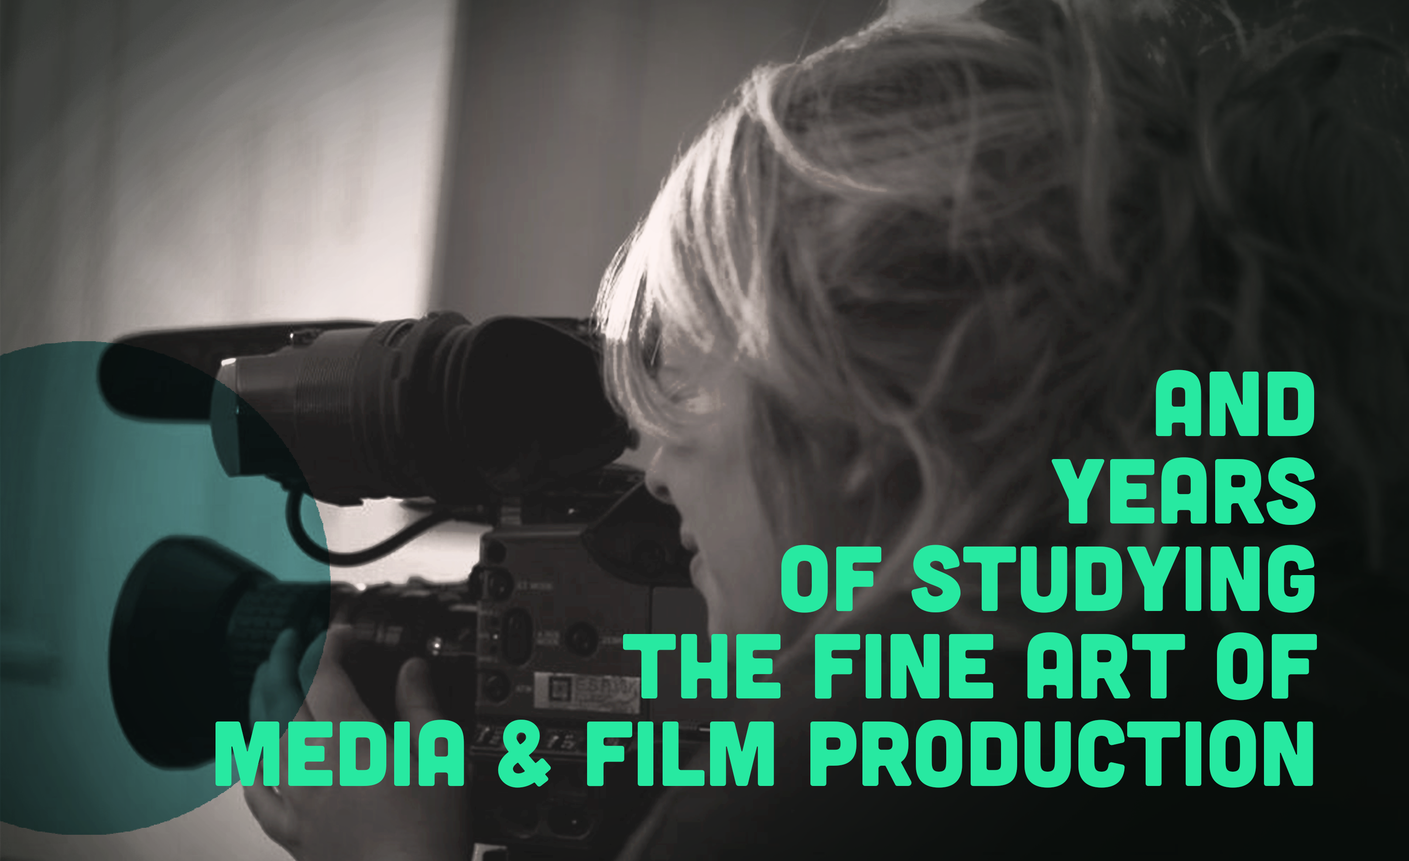
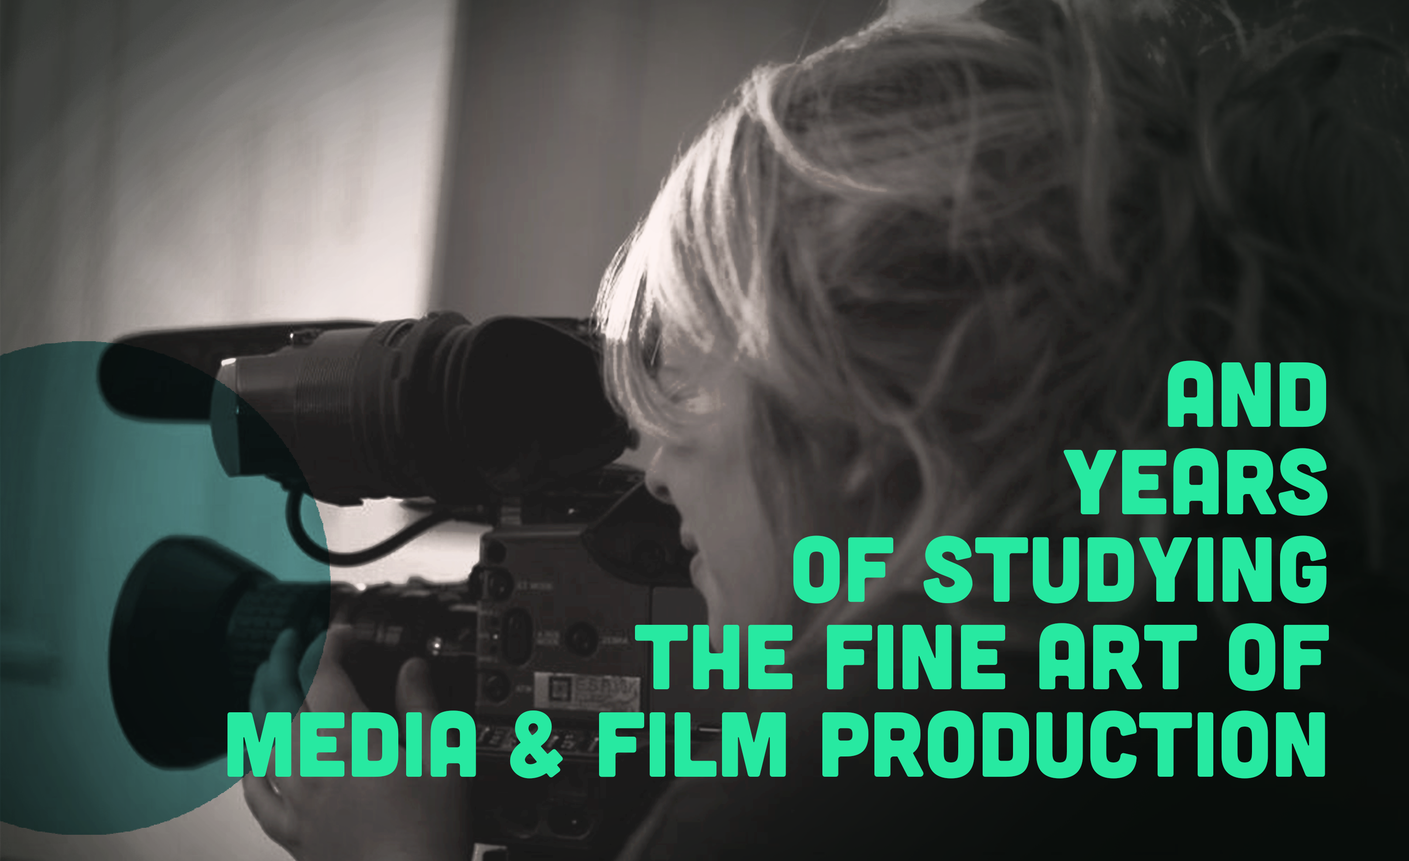
Content updates

Changed region(s): [[0.1552, 0.4032, 0.9624, 0.9305]]

diff --git a/index.html b/index.html
@@ -8,7 +8,7 @@
     <link rel = "stylesheet" type="text/css" href = "CSS/stylesheet.css">
     <link rel = "stylesheet" type="text/css" href = "CSS/queries.css">
     <link href="https://fonts.googleapis.com/css?family=Playfair+Display:400,700,700i,900,900i" rel="stylesheet">
-    <link href="https://fonts.googleapis.com/css?family=Raleway:400,600,700,900" rel="stylesheet">
+    <link href="https://fonts.googleapis.com/css?family=Raleway:400,500,600,700,900" rel="stylesheet">
     <link href="https://fonts.googleapis.com/css?family=Abril+Fatface|Lato" rel="stylesheet">
     <link rel="stylesheet" href="https://use.fontawesome.com/releases/v5.8.1/css/all.css" integrity="sha384-50oBUHEmvpQ+1lW4y57PTFmhCaXp0ML5d60M1M7uH2+nqUivzIebhndOJK28anvf" crossorigin="anonymous">
 
@@ -33,8 +33,8 @@
             <div class="hero-text-box">
                 <p id="welcome">Dear FAC family, </p>
                 <p id="welcome_text">My name is Leonie, and I am 
-                <span class="text-type" data-wait="3000" data-words='["an aspiring web developer.", "a food-loving cyclist.", "not a robot.", "a freelance producer.", "a travel enthousiast."]'></span>&nbsp;
-                <br>Inspired by the philosophy of effective altruism, the Tech For Good movement and London's vibrant coding community, I'm keen to start a career in coding.</p>
+                <span class="text-type" data-wait="3000" data-words='["an aspiring web developer.", "a freelance producer.","a multilingual travel enthusiast.", "not a robot.", "a passionate foodie" ]'></span>&nbsp;
+                <br>Inspired by a Japanese philosophy, the Tech For Good movement and London's vibrant coding community, I'm keen to start a career in coding.</p>
             </div>
 
     </header>
@@ -48,7 +48,7 @@
                                         <i class="fas fa-arrow-alt-circle-left" id="prevBtn"></i>
                                         <i class="fas fa-arrow-alt-circle-right" id="nextBtn"></i>
                                 <div class="carousel-slide">
-                                        <img src="images/image_carousel/Image_5.png" class="image" alt="" id="lastClone">
+                                        <img src="images/image_carousel/Image_7.png" class="image" alt="" id="lastClone">
                                         <img src="images/image_carousel/Image_1.png" class="image"  alt="">
                                         <img src="images/image_carousel/Image_2.png" class="image" alt="">
                                         <img src="images/image_carousel/Image_3.png" class="image" alt="">
@@ -81,8 +81,8 @@
                         <div class="col span_7">
                                 <p>After college, I was drawn to a career in media production as it seemed to provide a perfect blend of creativity, versatility and entrepreneurship. Ten years, two media-related degrees and three international moves later, I'm now working as a freelance producer and motion graphics designer in the advertising industry. Throughout the past years, I had the opportunity to work on films, TV productions and branded video content - projects that 19-year old me would have been super excited about. But instead of excitement, I started feeling increasingly frustrated in my job and with my career choices. As I was grappling with what felt like a <a href="https://en.wikipedia.org/wiki/Quarter-life_crisis" alt="Wikipedia article on Quarter-life crisis" target="_blank">quarter-life crisis</a>, I learned about <a href="https://en.wikipedia.org/wiki/Ikigai" alt="Wikipedia article on ikigai" target="_blank">ikigai</a>, a Japanese concept meaning  "a reason for being" which can serve as some sort of compass to navigate both career and life decisions. </p>
 
-                                <p class="new_paragraph">And there was <a href="https://en.wiktionary.org/wiki/des_Pudels_Kern" alt="Wikipedia article on the expression The poodle's core" target="_blank">'the poodle's core'</a>: Not only had I not found my ikigai yet, but I also realized that most likely, I wouldn't find it in film and video production <i>(unless maybe David Attenborough called asking me to produce the next Blue Planet).</i><br>
-                                Following that eureka moment, I knew that I had to explore other career routes. So I started my quest for a new career <b class="highlight">by addressing ikigai's four defining questions</b>...</p> 
+                                <p class="new_paragraph">And there was <a href="https://en.wiktionary.org/wiki/des_Pudels_Kern" alt="Wikipedia article on the expression The poodle's core" target="_blank">'the poodle's core'</a>: Not only had I not found my ikigai yet, but I also realized that most likely, I wouldn't find it in film and video production.<br>
+                                Following this eureka moment, I knew that I had to explore other career routes. So I started my quest for a new career <b class="highlight">by addressing ikigai's four defining questions</b>...</p> 
                         
                         </div>
                 </div>
@@ -102,20 +102,21 @@
                     <div class="col span_7">
                             <p class="cycle_text activeText" id="need_text">This felt like the most pressing question for me to address since it is very important for me to find a meaningful career, i.e. do work that helps others in some way. I also felt that this was where I saw the most discrepancy between my goals and my current career - cause let's be honest, advertising and entertainment is not really top of the 'What the world needs'-list. Through my research, I came to learn about effective altruism and discovered the incredibly inspiring website <a href="https://80000hours.org/" alt="80,000 hours website" target="_blank">80,000 hours</a>: An eye-opening online resource that provides advice on careers with positive social impact. I devoured this website from top to bottom. And in doing so, I realized the multiple ways in which a career in tech can have a positive social impact and can be used to help others. My excitement for the tech industry was further spurred, when I discovered the <a href="https://techforgoodhub.co.uk/tech-for-good" alt="article on tech for good" target="_blank">Tech for Good</a> movement and learned about tech enterprises that improve education, strengthen communities, increase inclusivity and much more.<br>The idea of designing, building and using tech to drive social change excited me tremendously and looking ahead in our digital future, I believe it is exactly <b class="highlight">what the world needs</b>.
                             </p>
-                            <p class="cycle_text hidden" id="love_text">As someone who loved both maths and arts at college, I always felt that my passion is somewhat torn between my left and right brain side. While I always enjoyed solving mathematical and analytical problems, I didn't start a career in math as I feared a lack of creative work and vice versa - the compromise was a career in media which eventually left neither brain side fully satisfied. However, working in media production helped me to discover one thing that I truly love: building things. From complex Excel project plans to motion graphics compositions - I could spend days designing a system and then working out the software to bring this brainchild to life. As a motion graphics designer, I frequently find myself in a <a href="https://en.wikipedia.org/wiki/Flow_(psychology)" alt="Wikipedia article on flow state" target="_blank">flow state</a> where I work on compositions for hours while completely losing track of time. I also love the constant learning process that is required to build new things in different ways. You can imagine my excitement when I discovered that coding combines all these <b class="highlight">things I love doing</b>.<br>On top of that, I was amazed and grateful when I discovered the numerous collaborative and open-source learning opportunities that are available within the coding community. I very much enjoy participating in coding events and I'm excited about the idea of diving deeper into the coding community as a student and eventually as a mentor. </p>
-                            <p class="cycle_text hidden" id="good_text">When I first started with coding, I still had doubts if I could be any good in a long-term programming career. I always thought of myself as a people person who likes working in teams and thrives when collaborating with others. My idea of coding was somewhat the opposite of teamwork as I had always considered it as a just-you-and-your-computer kind of thing. However, visiting FAC and other coding meetups over the past few months, I've learned that communication and team working skills are tremendously important in this profession. Discovering that coding can be a collaborative exercise helped me gain confidence in becoming a coder myself. Now I feel that my people skills can be an asset when working in web development. Combined with my motivation for lifelong learning and my somewhat stubborn persistence when facing logical challenges, I do feel that <b class="highlight">I could become good at coding</b>.</p>
-                            <p class="cycle_text hidden" id="paid_text">Learning an 'employable' skill that is in demand in the future job market, was another important criteria in my career search. The industry I'm currently working in is afflicted with nepotism and often it's more about 'who you know' and what namely credits you have on your CV, rather than your skills and merit. I do realise that networking and soft skills are important in any job. But as someone who enjoys learning and building new skills, I am keen to build 'career capital' that consists of both soft and hard skills.<br>Looking at different job market projections and skill gap reports, I quickly realised that coding skills - JavaScript skills in particular -  are increasingly in demand. I also found FAC's own employment statistics (as presented at one of your opening evenings) very encouraging and reassuring in that regard. As a freelancer with irregular and little income, investing time in education at the cost of paid opportunities is a huge decision for me and sometimes can feel a bit like a gamble. Knowing that coding is something that I <b class="highlight">very likely can be employed and paid for</b> is extremely reassuring and helps me to stay focused.</p>
+                            <p class="cycle_text hidden" id="love_text">As someone who loved both maths and arts at college, I always felt that my passion is somewhat torn between my left and right brain side. While I always enjoyed solving mathematical and analytical problems, I didn't start a career in math as I feared a lack of creative work and vice versa - the compromise was a career in media which eventually left neither brain side fully satisfied. However, working in media production helped me to discover one thing that I truly love: building things. From complex Excel project plans to After Effects compositions - I could spend days designing a system and then working out the software to bring this brainchild to life. As a motion graphics designer, I frequently find myself in a <a href="https://en.wikipedia.org/wiki/Flow_(psychology)" alt="Wikipedia article on flow state" target="_blank">flow state</a> where I work on compositions for hours while completely losing track of time. I also love the constant learning process that is required to build new things in different ways. You can imagine my excitement when I discovered that coding combines all these <b class="highlight">things I love doing</b>.<br>On top of that, I was amazed and grateful when I discovered the numerous collaborative and open-source learning opportunities that are available within the coding community. I greatly enjoy participating in coding events and I'm excited about the idea of diving deeper into the coding community as a student and eventually as a mentor. </p>
+                            <p class="cycle_text hidden" id="good_text">“Find a job you’re good at” is probably the most common career advice, yet it seems to be the toughest question to figure out. <a href="https://80000hours.org/career-guide/personal-fit/#3-write-out-your-key-uncertainties" alt="Article on how to find the right career" target="_blank">Research shows</a> that it is very hard for us to predict what we’ll be good at ahead of time, especially through self-reflection.  What is more, abilities are built over time rather than discovered by soul-searching (or identified by biased parents). Based on this, I figured that I should rather ask myself <b class="highlight">“Could I <i>become</i> good at this job”</b>, once I discovered a career route that would interest me.<br> 
+                                        When I first got interested in coding, I had doubts if I could be any good in a long-term programming career. I always thought of myself as a people person who likes working in teams and thrives when collaborating with others. My idea of coding was somewhat the opposite of teamwork as I had always considered it as a just-you-and-your-computer kind of thing. However, visiting FAC and other coding meetups over the past few months, I've learned that communication and team working skills are tremendously important in this profession. Discovering that coding can be a <b class="highlight">collaborative exercise</b> helped me gain confidence in becoming a coder myself. Now I feel that my people skills can be an asset when working in web development. Combined with my motivation for lifelong learning and my somewhat stubborn persistence when facing logical challenges, I do feel that <b class="highlight">I could become good at coding. 
+                                        </b>.</p>
+                            <p class="cycle_text hidden" id="paid_text">Learning an 'employable' skill that is in demand in the future job market, was a very important criterion in my career search. Looking at different job market projections and skill gap reports, I quickly realised that coding skills - JavaScript skills in particular -  are increasingly sought after. What's more, coding skills can be applied across industries, which implies that these skills are both future-proof and flexible career capital. 
+                                I also found FAC's own employment statistics (as presented at one of your opening evenings) very encouraging and reassuring in that regard to a career in coding. As a freelancer with irregular and little income, investing time in education at the cost of paid opportunities is a huge decision for me and sometimes can feel a bit like a gamble. Knowing that coding is something that I <b class="highlight">can be employed and paid for</b> is extremely reassuring and helps me to stay focused.</p>
                     </div>
                 </div>
 
        
         <div class="statement">
                 <div id="coding_statement">
-                                <p> The more I learned about coding, the more I realized that it ticks many of those ikigai 'checkboxes' for me. This alone helped me fight off my quater-life crisis. The anxiety and regrets I had in regards to career choices gradually turned into excitement and ambition to learn more and more and more. And when I learned about FAC, this excitement was turned up a few notches. 
+                                <p> The more I learned about coding, the more I realized that it ticks many of those ikigai 'checkboxes' for me. This alone helped me fight off my quarter-life crisis. The anxiety and regrets I had in regards to career choices gradually turned into excitement and ambition to learn more and more and more. And when I learned about FAC, this excitement was turned up a few notches. 
                                 </p>
                 </div>
-                                
-        
         </div>
         </section>        
         <!-- whyFAC section-->
@@ -138,14 +139,14 @@
                     </div>
                     <div class="col span_7">
                             <p class="header_duplicate">I'd love to become part of the <span class="highlight">FAC family</span> during and beyond the bootcamp</p>
-                            <p class="reasons_text_left">When I went to my first FAC meetup in December as a complete novice, I was a bit anxious about going to a coding meetup, having just started on freecodecamp. But I immediately felt welcome and to my surprise, not out of place at all. In every meetup since then and in the gitter chat, I've experienced FAC as an <span class="highlight">extremely outgoing, helpful and diverse</span> community of like-minded people.  And in every article I read about FAC, alumni and students highlighted the strong sense of community in and outside the course. Growing up in a very close-knit neighbourhood collective (not quite a commune, but half the way there), a feeling of community was always something that I've missed in London. So the idea of becoming part of a community that is all about learning together, helping each other and building long-standing relationships, immediately caught my interest. For me, this is where FAC differs the most from any other coding bootcamp and why I am so much more excited about it. I don't see it as a one-off 16-week thing, but an opportunity to become part of an <span class="highlight">educational, professional and social network</span> during and beyond the bootcamp.
+                            <p class="reasons_text_left">When I went to my first FAC meetup in December as a complete novice, I was a bit anxious about going to a coding meetup, having just started on freecodecamp. But I immediately felt welcome and to my surprise, not out of place at all. In every meetup since then and in the gitter chat, I've experienced FAC as an <span class="highlight">extremely outgoing, helpful and diverse</span> community of like-minded people.  And in every article I read about FAC, alumni and students highlighted the strong sense of community in and outside the course. Growing up in a very close-knit neighbourhood collective (not quite a commune, but half the way there), a feeling of community was always something that I've missed in London. So the idea of becoming part of a community that is all about learning together, helping each other and building long-standing relationships, immediately caught my interest. For me, this is where FAC differs the most from any other coding bootcamps and why I am so much more excited about it. I don't see it as a one-off 16-week thing, but an opportunity to become part of an <span class="highlight">educational, professional and social network</span> during and beyond the bootcamp.
                             </p>
                     </div>
             </div>
             <div class="row distance">
                     <div class="col span_7">
                         <p class="header_duplicate">I'm interested in tech that drives <span class="highlight">social change</p>
-                            <p class="reasons_text_right">As mentioned above, it's very important for me to find a career that allows me to do work that helps others and the Tech for Good community was a huge inspiration for me to start coding. This is why I was particularly excited when I learned that <span class="highlight">working with non-profit organisations</span> is a key part of the FAC curriculum. I also found it very interesting and inspiring to learn about the different partnerships and collaborations associated with FAC, such as Yalla Cooperative and Intersticia. These initiatives illustrate that FAC fosters the kind of <span class="highlight">work opportunities that I'm most interested in</span>. As a video producer, I've always enjoyed creating content for charities and social-good startups. In the future, I hope that I can continue using my video production skills as well as my coding skills to help social enterprises. Doing so even while I'm still learning to be a web developer would be an amazing opportunity that I'd highly appreciate.
+                            <p class="reasons_text_right">As mentioned above, it's very important for me to find a career that helps others and the Tech for Good community was a huge inspiration for me to start coding. This is why I was particularly excited when I learned that <span class="highlight">working with non-profit organisations</span> is a key part of the FAC curriculum. I also found it very interesting and inspiring to learn about the different partnerships and collaborations associated with FAC, such as Yalla Cooperative and Intersticia. These initiatives illustrate that FAC fosters the kind of <span class="highlight">work opportunities that I'm most interested in</span>. As a video producer, I've always enjoyed creating content for charities and social-good startups. In the future, I hope that I can continue using my video production skills as well as my coding skills to help social enterprises. Doing so even while I'm still learning to be a web developer would be an amazing opportunity that I'd highly appreciate.
                             </p>
                     </div>
                     <div class="col span_5">
@@ -167,7 +168,7 @@
             <div class="row distance">
                     <div class="col span_7">
                             <p class="header_duplicate">I believe in <span class="highlight">giving back</span> and in making education more accessible</p>
-                            <p class="reasons_text_right">When I first heard about FAC, I was amazed by the idea of a self-sustainable, accessible education programme. All too often, education seems to be this tuition-heavy privilege that impedes diversity in all walks of life. That's why I find that enterprises fostering accessibility and inclusivity in education are extremely valuable. I cherish the idea that <span class="highlight">I could help maintain and foster</span> such an initiative as a FAC mentor and alumni. I'm already very grateful of the free support that I've received from FAC thus far <i>(in the meetups, the gitter chat and the part-time course)</i>, and I would welcome the opportunity to turn this appreciation into an actual contribution and <span class="highlight">provide similar support to others</span>. Having mentored students at my former university, I believe that I can contribute to the team with my own experience.
+                            <p class="reasons_text_right">When I first heard about FAC, I was amazed by the idea of a self-sustainable, accessible education programme. All too often, education seems to be this tuition-heavy privilege that impedes diversity in all walks of life. That's why I find that enterprises fostering accessibility and inclusivity in education are extremely valuable. I cherish the idea that <span class="highlight">I could help maintain and foster</span> such an initiative as a FAC mentor and alumni. I'm already very grateful of the free support that I've received from FAC thus far <i>(in the meetups, the gitter chat and the part-time course)</i>, and I would welcome the opportunity to <span class="highlight">provide similar support to others</span>. Having mentored students at my former university, I believe that I can contribute to the team with my own experience.
                             </p><p class="new_paragraph reasons_text_right">
                                 I also feel that "near-peer" mentorship has a multitude of other benefits: cooperating with other like-minded people, being involved in a vibrant learning environment and consolidating my own knowledge, just to name a few.  I'm very excited about FAC's plans to extend their activities to other countries, and <span class="highlight">I'd love to play an active role</span> in it's national and international growth. 
                             </p>
@@ -183,7 +184,7 @@
         <section id="contact">
                 <div class="statement">
                                 <p id="thanks">Thanks</p>
-                                <p>...for taking the time to read through my website. I realize that it was quite a pile to read through. I hope it was enough to spark your interest in meeting me for a chat. If so, you can contact me at <b class="highlight">Leonie.Zorzi@hotmail.com</b> or <b class="highlight">07484&nbsp;143&nbsp;159</b>.<br> I hope to see you soon.
+                                <p>...for taking the time to read through my website. I realise that it was quite a pile to read through. I hope it was enough to spark your interest in meeting me for a chat. If so, you can contact me at <b class="highlight">Leonie.Zorzi@hotmail.com</b> or <b class="highlight">07484&nbsp;143&nbsp;159</b>.<br> I hope to see you soon.
                 </div>
         </section>
         

diff --git a/JS/javascript.js b/JS/javascript.js
@@ -25,6 +25,7 @@ function slideRight() {
   carouselSlide.style.transform = "translateX(" + -size * counter + "px)";
 }
 
+//slide left function
 function slideLeft() {
   carouselSlide.style.transition = "transform 0.6s ease-in-out";
   counter--;
@@ -43,13 +44,13 @@ prevBtn.addEventListener("click", () => {
 });
 
 //Reset image slide when browser window size is changed
-function getTranslateX() {
-  var style = window.getComputedStyle(carouselSlide);
-  var matrix = new WebKitCSSMatrix(style.webkitTransform);
-  console.log(matrix.m41);
-}
+// function getTranslateX() {
+//   var style = window.getComputedStyle(carouselSlide);
+//   var matrix = new WebKitCSSMatrix(style.webkitTransform);
+//   console.log(matrix.m41);
+// }
 
-function resetImages() {}
+// function resetImages() {}
 
 //loop through images
 carouselSlide.addEventListener("transitionend", () => {
@@ -124,7 +125,7 @@ TypeWriter.prototype.type = function() {
   this.txtElement.innerHTML = `<span class="txt">${this.txt}</span>`;
 
   //Initial Type Speed
-  let typeSpeed = 260;
+  let typeSpeed = 200;
 
   if (this.isDeleting) {
     typeSpeed /= 2;
@@ -141,7 +142,7 @@ TypeWriter.prototype.type = function() {
     //Move to next word
     this.wordIndex++;
     //Pause before start typing
-    typeSpeed = 500;
+    typeSpeed = 200;
   }
 
   setTimeout(() => this.type(), typeSpeed);

diff --git a/CSS/stylesheet.css b/CSS/stylesheet.css
@@ -57,6 +57,7 @@ p {
   line-height: 1.5em;
   text-align: justify;
   font-style: normal;
+  font-weight: 500;
 }
 
 img {
